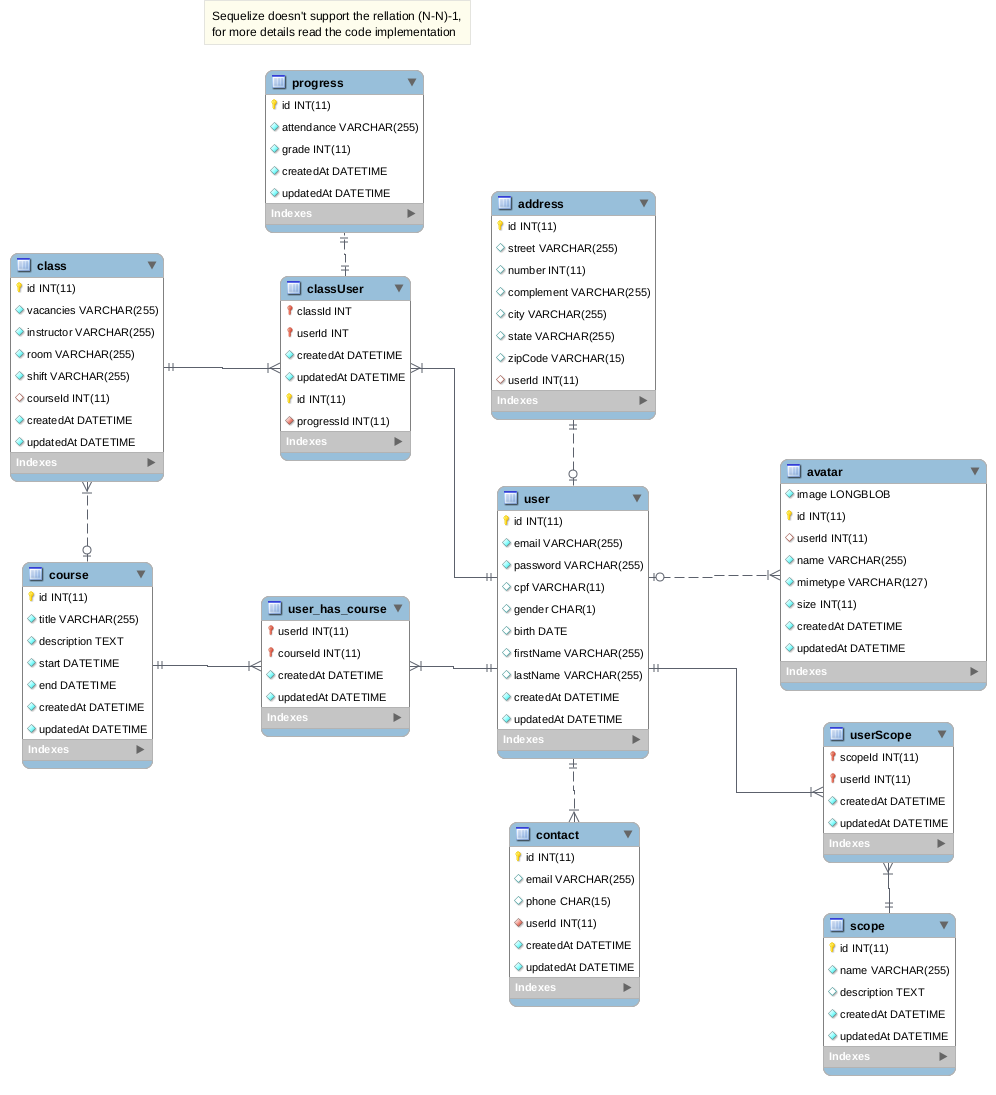
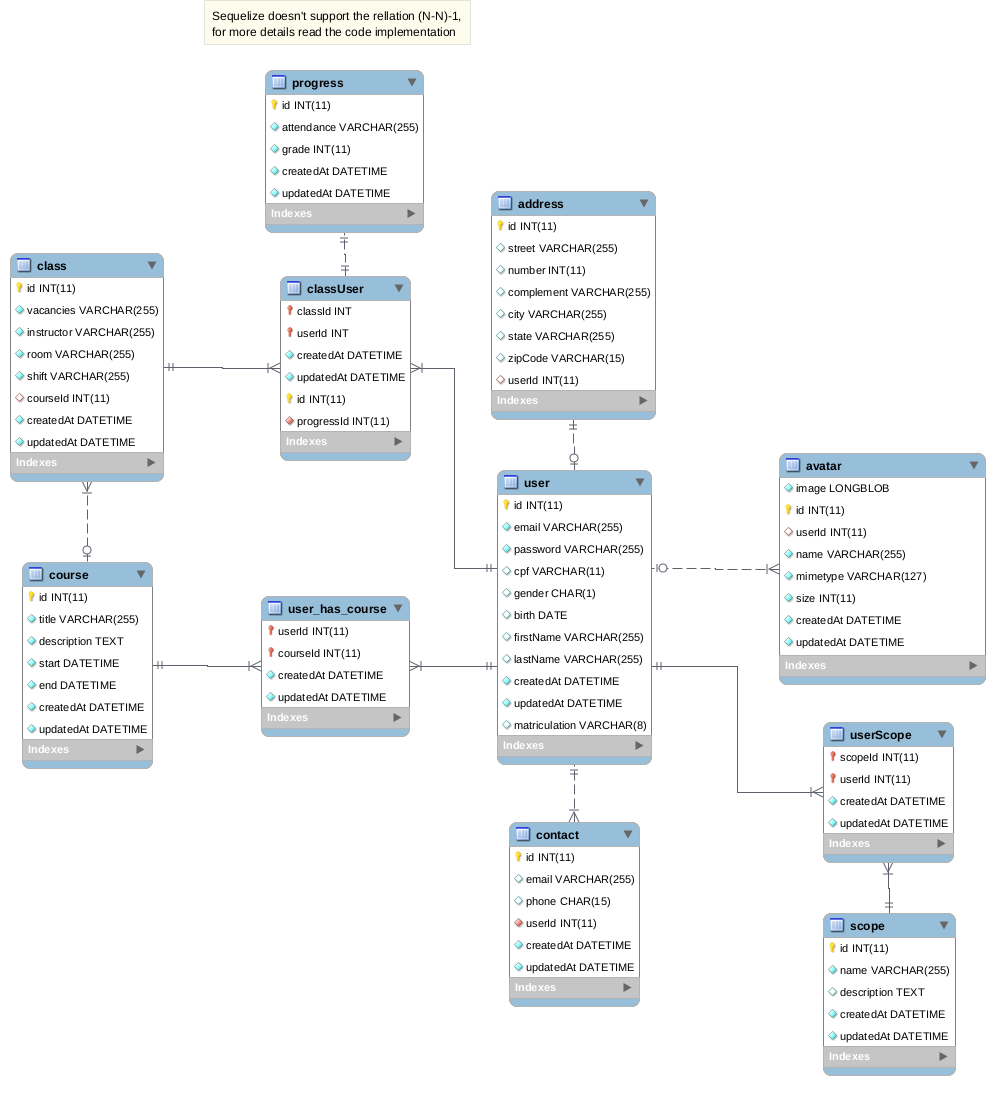
Matriculation added to user model

diff --git a/index.js b/index.js
@@ -17,7 +17,7 @@ app.use(
         }   
 
         type RootMutation {
-            createEvent(name: String): String
+          createEvent(name: String): String
         }
 
         schema {
@@ -25,7 +25,6 @@ app.use(
                 RootQuery
             mutation:
                 RootMutation
-
         }
     `),
     rootValue: {
@@ -44,5 +43,5 @@ app.use(
 );
 
 app.listen(3000, () => {
-  // console.log("🚀 Server on http://localhost:3000");
+  console.log("🚀 Server on http://localhost:3000");
 });

diff --git a/models/user.js b/models/user.js
@@ -20,6 +20,10 @@ export default (sequelize, DataTypes) => {
         type: DataTypes.STRING(11),
         unique: true
       },
+      matriculation: {
+        type: DataTypes.STRING(8),
+        unique: true
+      },
       gender: DataTypes.CHAR(1),
       birth: DataTypes.DATEONLY,
       firstName: DataTypes.STRING,
